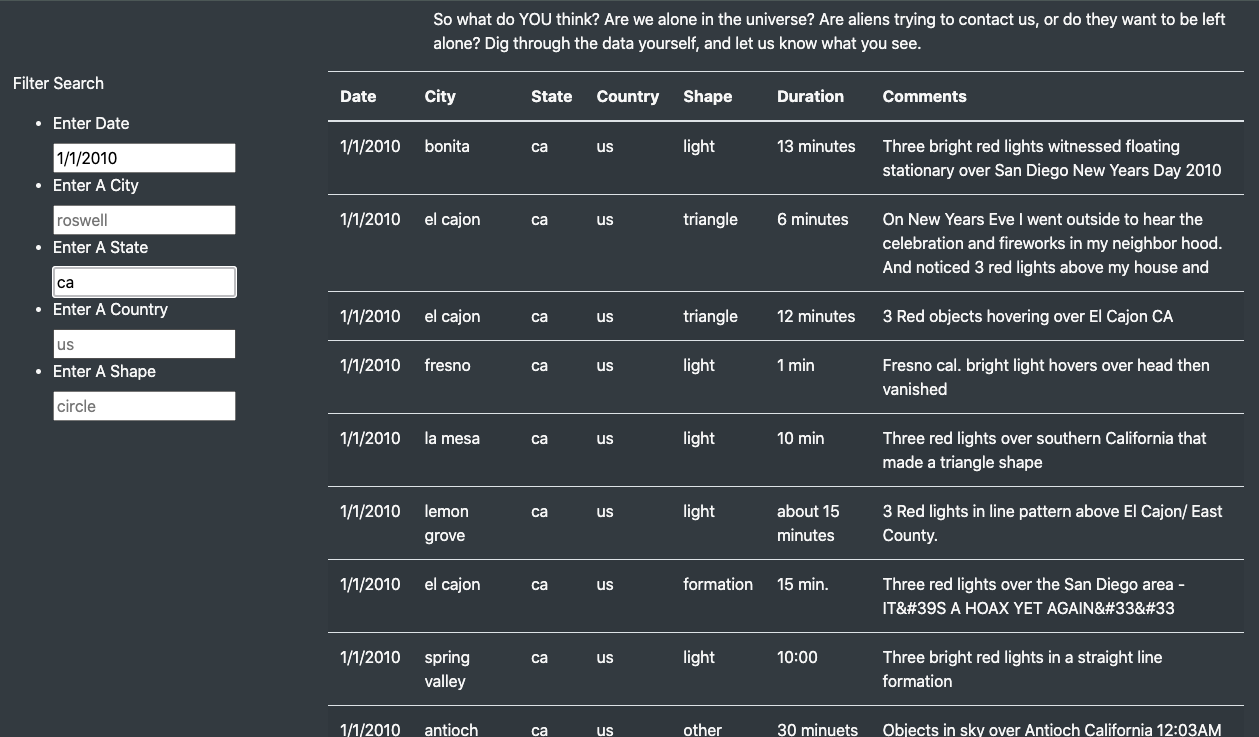
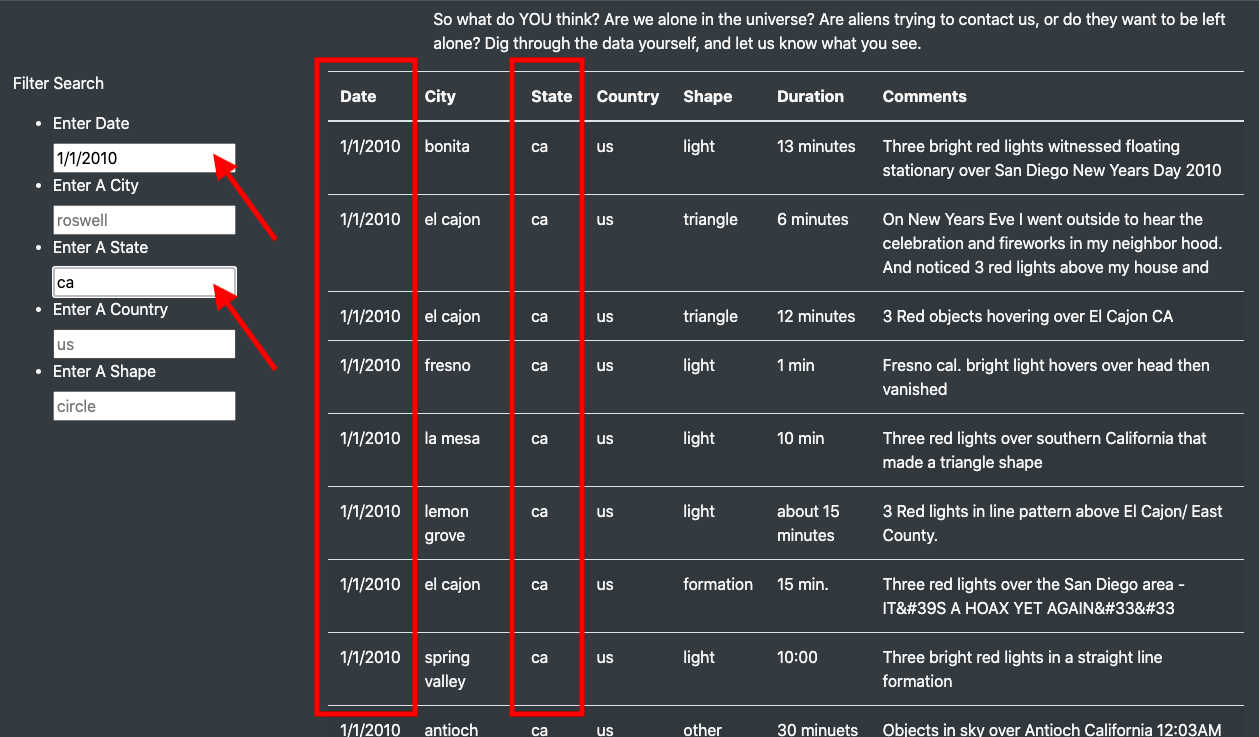
changes

diff --git a/README.md b/README.md
@@ -73,10 +73,13 @@ The "Proper" Conclusion is indicated below on [Summary](#summary)
 
 ![Initial View](images/init_view.png)
 
->June Temperature
+>One Filter
 
-![June Temperature](resources/junetemp.png)
+![One Filter](images/one_filter_funcs.png)
 
+>Multi Filters
+
+![Multi Filters](images/multi_filter_funcs.png)
 ## Summary
 
 ## Appendix
